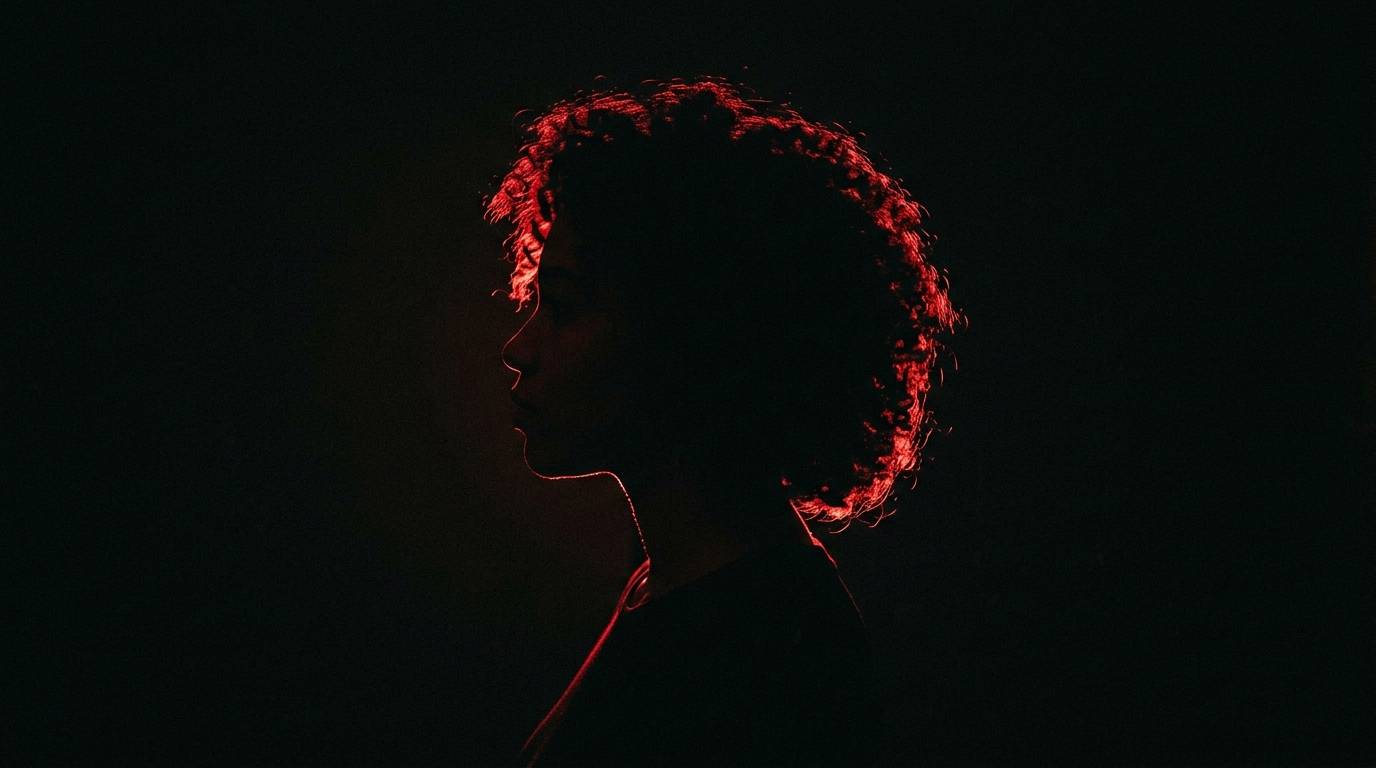
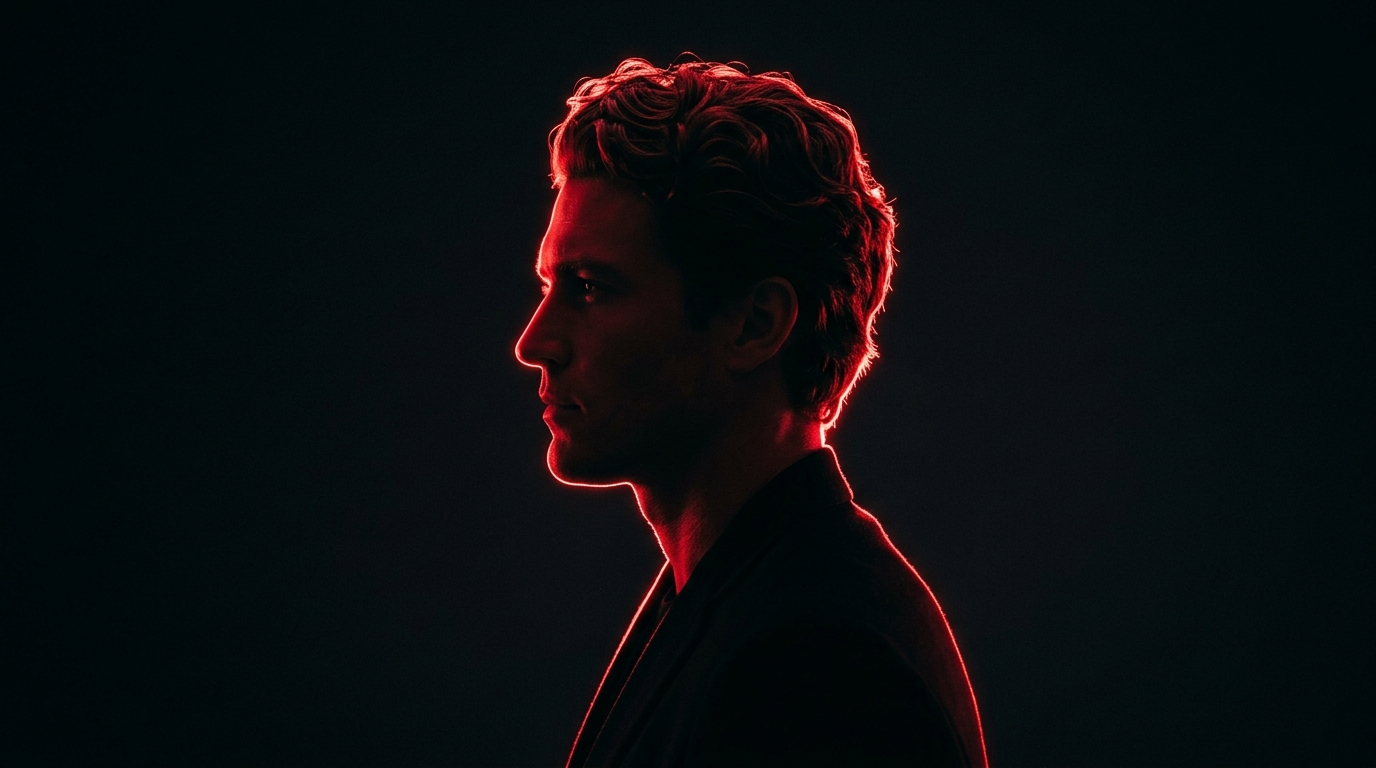
Enhance side profile silhouette visibility with vivid red rim lighting and responsive layout

Changed region(s): [[0.3438, 0.0625, 0.7188, 1.0]]

diff --git a/src/components/LandingHero.jsx b/src/components/LandingHero.jsx
@@ -11,25 +11,29 @@ export default function LandingHero({ onBeginInvestigation, onNavigate }) {
     >
       {/* Background Side-Profile Silhouette with Red Rim Lighting (Right Side) */}
       <div className="absolute inset-0 z-0 flex items-center justify-end pointer-events-none overflow-hidden">
+        
+        {/* Subtle Red Volumetric Atmospheric Back-Glow */}
+        <div className="absolute right-4 sm:right-24 top-1/3 w-64 sm:w-[480px] h-64 sm:h-[480px] bg-brand-red/25 rounded-full blur-[110px] pointer-events-none" />
+
         <motion.div 
           initial={{ opacity: 0, scale: 1.05 }}
           animate={{ opacity: 1, scale: 1 }}
           transition={{ duration: 1.6, ease: "easeOut" }}
-          className="relative w-full sm:w-4/5 lg:w-3/5 h-full flex items-center justify-end"
+          className="relative w-full sm:w-[85%] lg:w-[65%] xl:w-[58%] h-full flex items-center justify-end"
         >
           <img
             src="/landing-profile.jpg"
             alt="DevTalks '26 Keynote Silhouette"
-            className="w-full h-full object-cover object-center lg:object-right opacity-60 sm:opacity-80 lg:opacity-100"
+            className="w-full h-full object-cover object-center sm:object-right brightness-115 contrast-125 saturate-125"
           />
-          {/* Subtle vignette / seamless gradient blend into pure black on left */}
-          <div className="absolute inset-0 bg-gradient-to-r from-[#070707] via-[#070707]/70 to-transparent pointer-events-none" />
-          <div className="absolute inset-0 bg-gradient-to-t from-[#070707] via-transparent to-[#070707]/70 pointer-events-none" />
+          {/* Subtle gradient blend on the left to ensure high readability of typography */}
+          <div className="absolute inset-0 bg-gradient-to-r from-[#070707] via-[#070707]/40 to-transparent pointer-events-none" />
+          <div className="absolute inset-0 bg-gradient-to-t from-[#070707] via-transparent to-[#070707]/50 pointer-events-none" />
         </motion.div>
       </div>
 
       {/* Film Grain Texture */}
-      <div className="absolute inset-0 film-grain pointer-events-none z-10 opacity-30" />
+      <div className="absolute inset-0 film-grain pointer-events-none z-10 opacity-25" />
 
       {/* TOP HEADER */}
       <motion.header 
